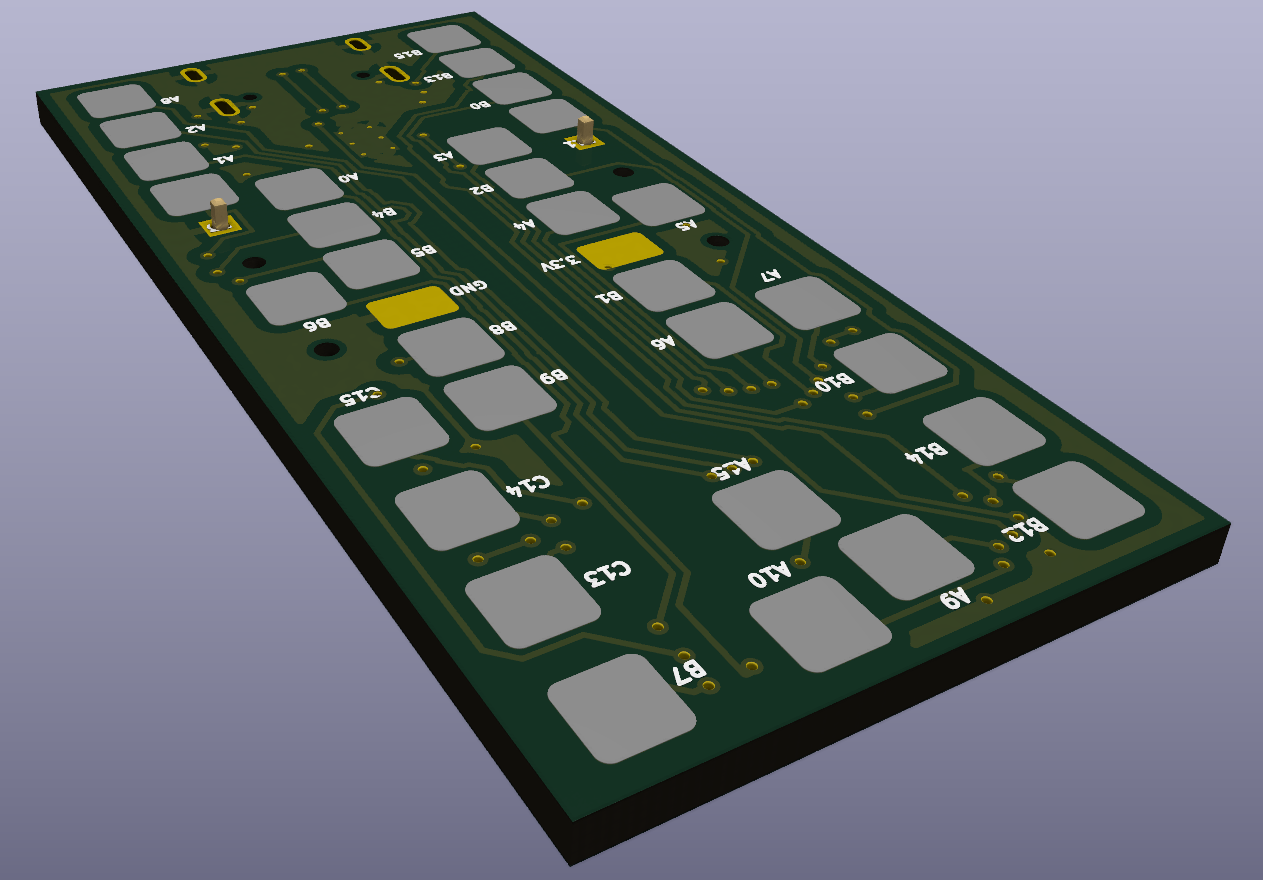
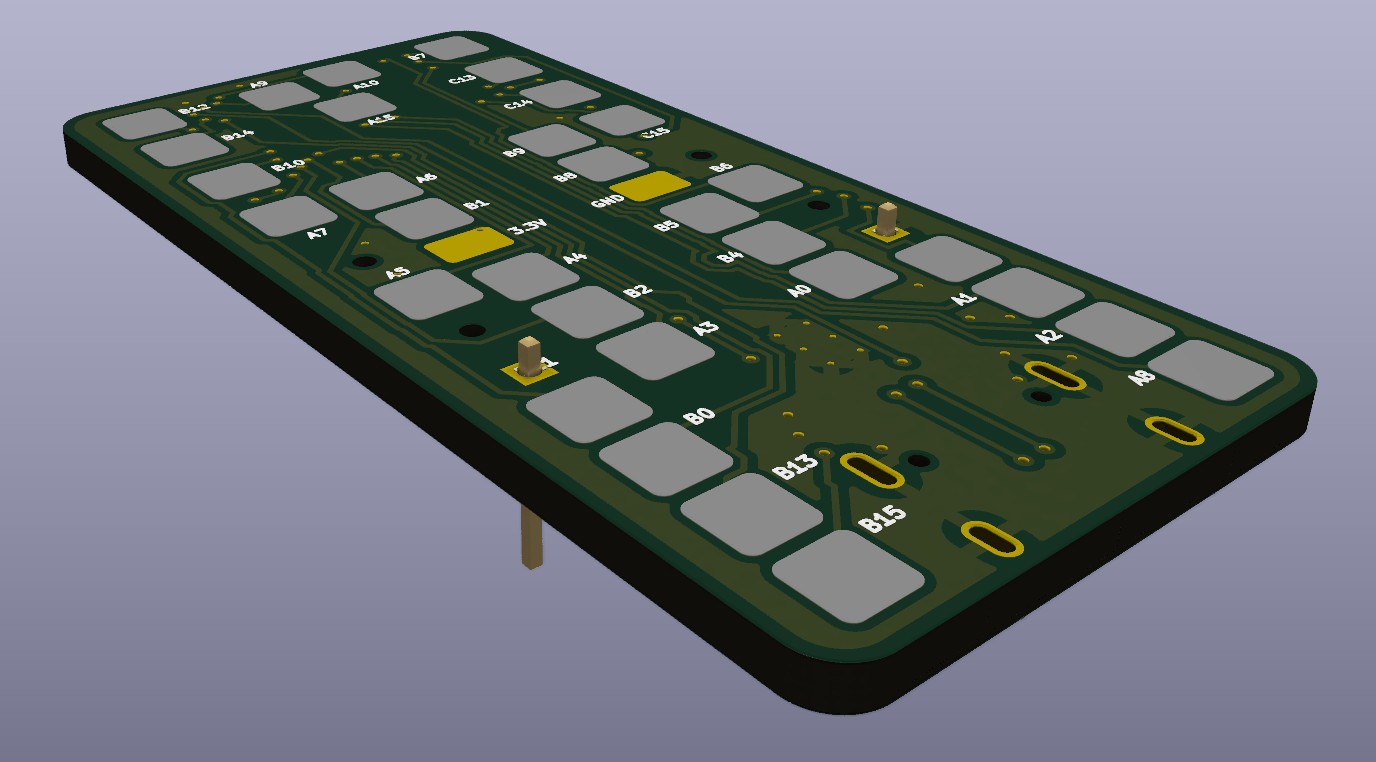
Updated README with new images

diff --git a/JOURNAL.md b/JOURNAL.md
@@ -10,7 +10,7 @@ created_at: "2026-03-20"
 Through research, I've found that I can use the MounRiver Studio IDE for programming the chip I am going to be using, the CH32V203C8T6. I already picked out components I am going to be using.\
 This has definitely been a lot more looking at datasheets than I expected lol. So far it's going very well, I have the Filter, Charger, and PSU for the charger designed in schematic.\
 Currently working on the devboard that will attach to the console, the idea is basically a swap-out system where you can attach the devboard onto various modules, the first of which will be the game console.\
-Bruh I just spent like 45 minutes on making a 5v power supply for the charger. The USB plug has to provide the power and it's already 5V :( Not a pro gamer move. Does mean there's one less thing to fit on the PCB!\
+Bruh I just spent like 45 minutes on making a 5v power supply for the charger. The USB plug has to provide the power and it's already 5V :( Not a pro gamer move. Does mean there's one less thing to fit on the PCB!
 
 **TO-DO (Schematic):**
  - LDO Filter :D
@@ -31,7 +31,7 @@ I want to put the LiPo battery on the board, but the only way I can do that and 
 It might be possible to do something like an extender?? I don't know.\
 I can't figure out how to get a custom footprint to only appear on the bottom leyer. Time to Google! - Figured it out; I didn't have bottom footprints visible lol.\
 I had an idea! What if I just kind of mount the lipo in top of the board? The only thing with that would be that the buttons would be blocked. Not sure.\
-Devboard PCB layout finished! Going to get a quote from PCBWay/JLCPCB to see what that expense will be. Probably will see in the morning.\
+Devboard PCB layout finished! Going to get a quote from PCBWay/JLCPCB to see what that expense will be. Probably will see in the morning.
 
 **TO-DO (Schematic):**
  - LDO Filter :D
@@ -68,3 +68,12 @@ After asking a couple questions, I've found that it would be a better idea to ha
 **Total time spent: ~3.3 Hours**
 
 ![BOM](Images/DevboardBOM.png)
+
+# July 24 - Finishing Touches to PCB
+
+Not a lot today, mainly some finishing touches to PCB. I've seen a lot on Slack about "rounding thy corners", so I did that. I regenerated the GRBRs afterwards.\
+I am also going to update the readme fully with updated pictures of everything.
+
+**Total time spent: ~ Hours**
+
+![Final PCB](Images/FinalPCB.png)

diff --git a/README.md b/README.md
@@ -31,7 +31,7 @@ Last but not least, if I have any extra time, I'd eventually like to make other 
 ![Schematic of Devboard](Images/PCBSchemDay2.svg)
 
 *PCB Layout*\
-![PCB Layout of Devboard](Images/DevboardPCB.png)
+![PCB Layout of Devboard](Images/FinalPCB.png)
 
 *Built-in KiCad 3D Model Front*\
 ![Built-in KiCad 3D Model Front of Devboard](Images/PCBFront.png)
